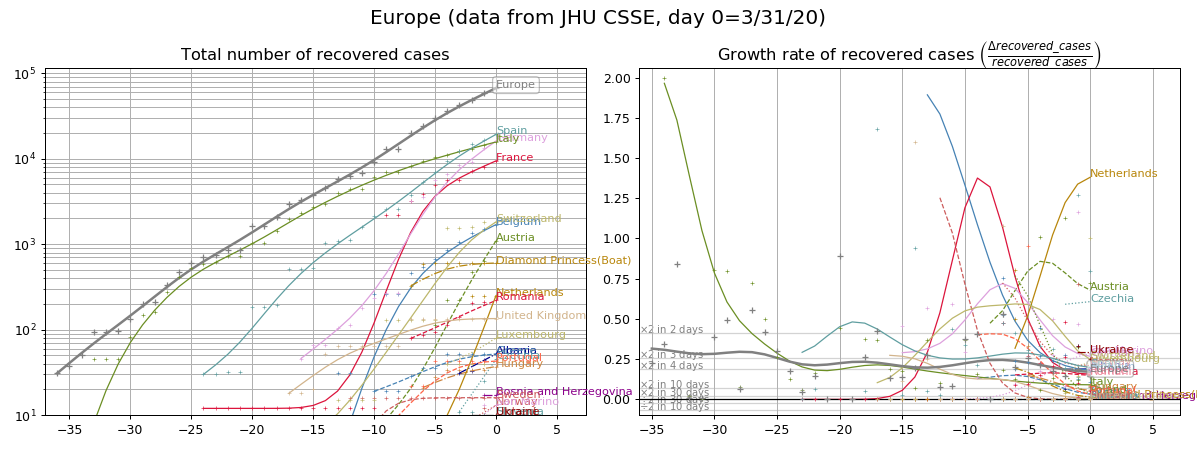
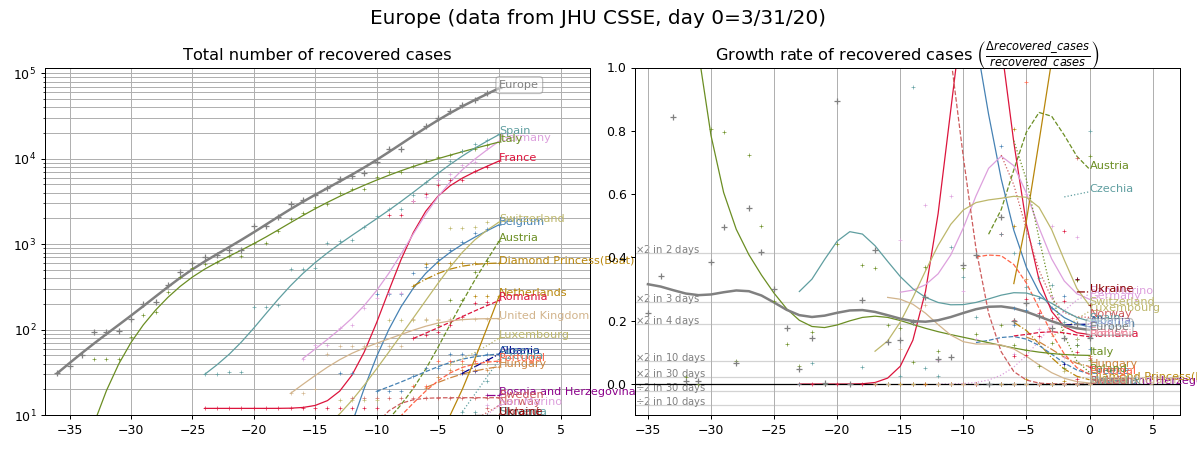
refix

diff --git a/generate.py b/generate.py
@@ -308,7 +308,7 @@ def plot(region_list, what_to_plot, focus, fcts, arg_plot, size=5, log=True, syn
 
                 plt.plot([x1, x3], [0, 0], "-", color='black', lw=1, zorder=2)
                 
-                plt.ylim( max(-0.3, yy[0]), yy[1])
+                plt.ylim( max(-0.3, yy[0]), min(1.0, yy[1]))
                 
             elif log:
                 
@@ -585,5 +585,5 @@ def generate_markdown():
             print("- - - \n")
         print("\n- - - \n")
 
-#generate_graphs()
-generate_markdown()
+generate_graphs()
+#generate_markdown()
